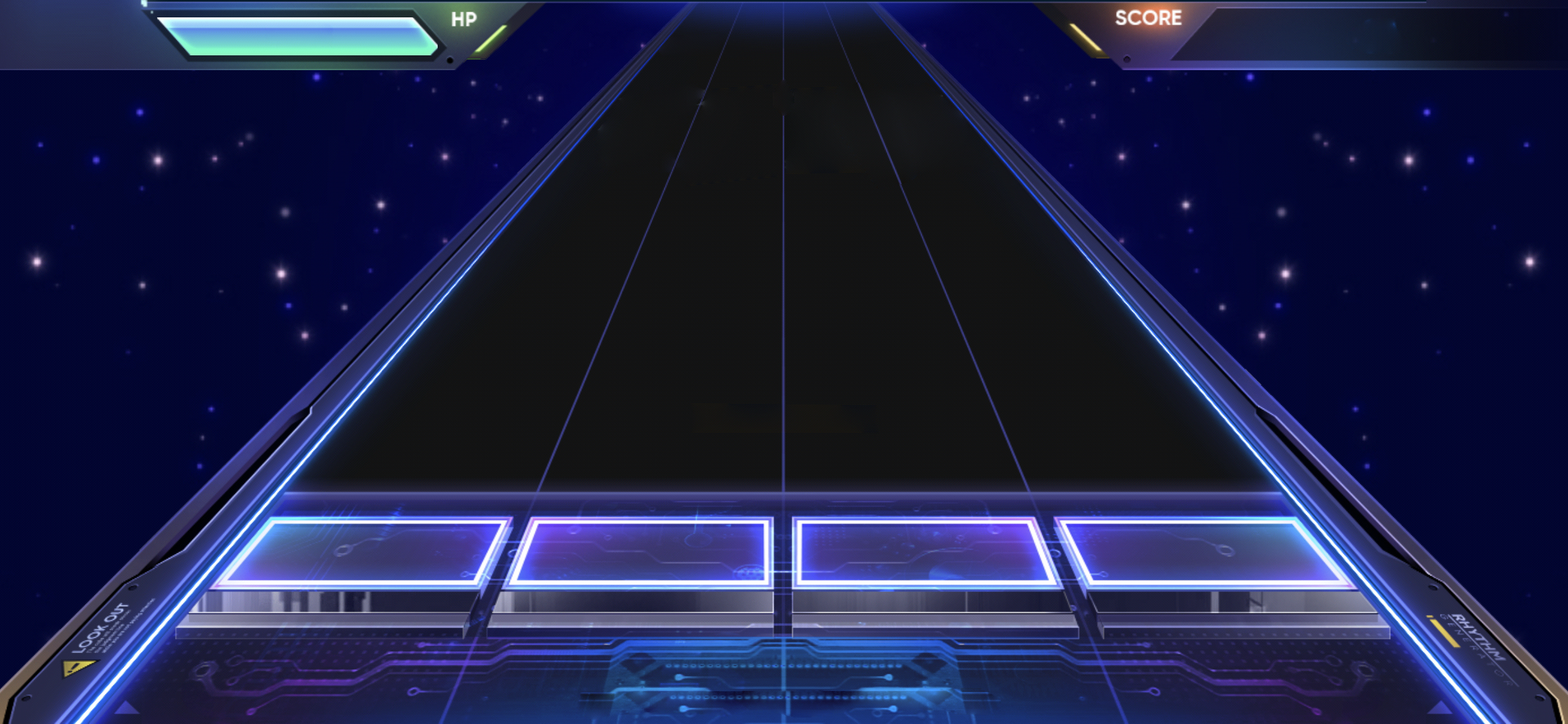
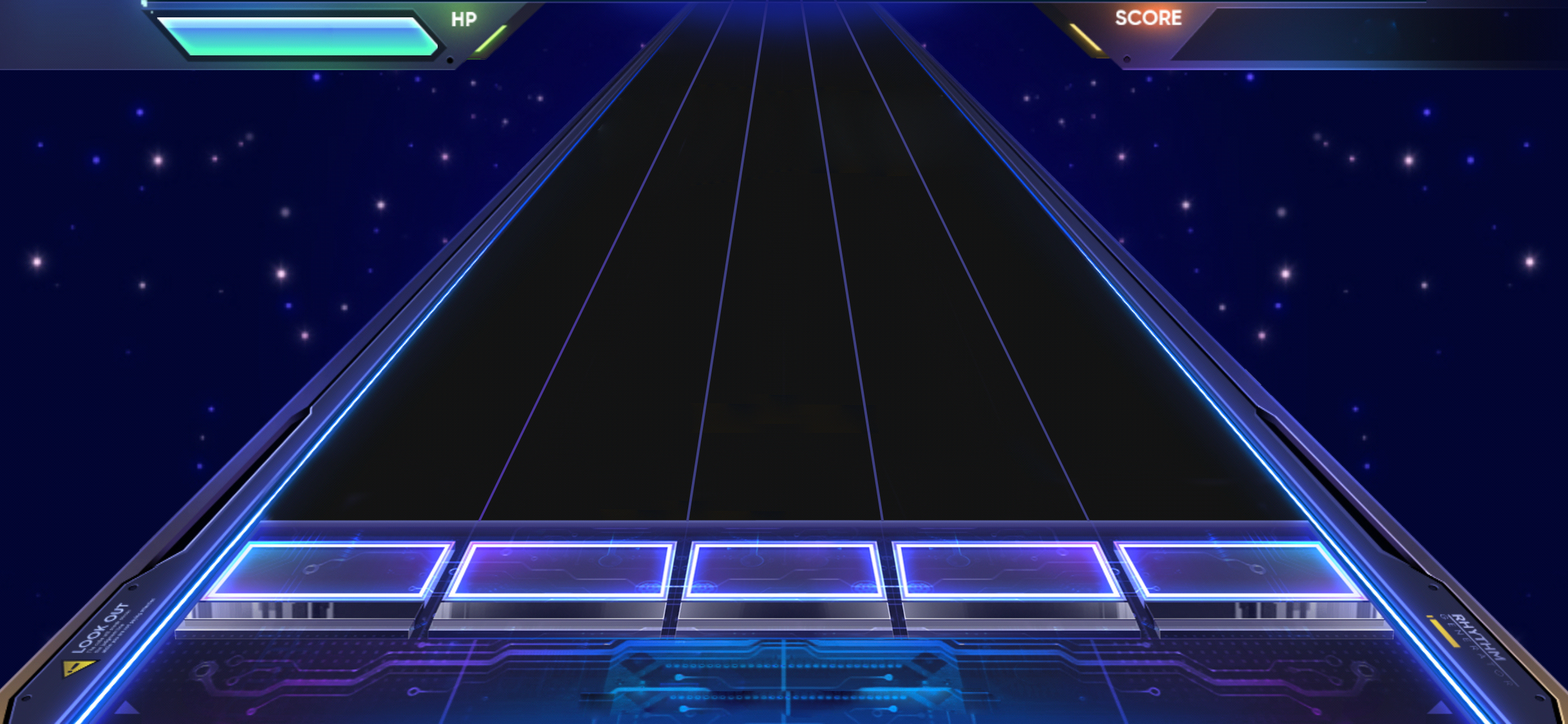
change
change

diff --git a/src/components/rhythm/Rhythm.js b/src/components/rhythm/Rhythm.js
@@ -58,7 +58,7 @@ export default function Dance() {
 
 
 		const trackWidth = 600
-		const trackHeight = 130
+		const trackHeight = 100
 		const trackDepth = 10;
 		let paddleWidth = 100;
 		let paddleHeight = 200;
@@ -101,7 +101,7 @@ export default function Dance() {
 					{
 						// color: 0x666666,
 						transparent: true,
-						opacity: 0,
+						opacity: 1,
 						map: Ttexture
 					})
 			);
@@ -120,17 +120,18 @@ export default function Dance() {
 		// 传入trackNum，规定滑块在哪条赛道上生成 ,positionNum 规定滑块在赛道上的距离
 		function createBox(trackNum, positionNum) {
 			const newWidth = 12
-			const newHeight = 37
+			const newHeight = 30
 			const newDepth = 5
 			const startY = 297
 			const startZ = 301
 			newSpeed = 324 / 30 / 4
 			const Boxtexture = new THREE.TextureLoader().load("./images/box.png");
 			const trackArr = {
-				"1": -64,
-				"2": -22,
-				"3": 22,
-				"4": 64
+				"1": -72,
+				"2": -35,
+				"3": 0,
+				"4": 35,
+				"5": 72,
 			}
 
 			const ball4 = new THREE.Mesh(
@@ -206,7 +207,7 @@ export default function Dance() {
 			// set the scene size
 			var WIDTH = window.innerWidth,
 				HEIGHT = window.innerHeight;
-
+			
 			// set some camera attributes
 			var VIEW_ANGLE = 50,
 				ASPECT = WIDTH / HEIGHT,
@@ -230,6 +231,20 @@ export default function Dance() {
 			// add the camera to the scene
 			scene.add(camera);
 
+
+			createBox(1, 1) 
+			createBox(2, 1)
+			createBox(3, 1)
+			createBox(4, 1)
+			createBox(5, 1)
+
+			 createTrack(-215)
+			 createTrack(-104)
+			 createTrack(0)
+			 createTrack(104)
+			 createTrack(215)
+
+			
 			// set a default position for the camera
 			// not doing this somehow messes up shadow rendering
 			camera.position.z = 320;
@@ -299,11 +314,11 @@ export default function Dance() {
 			const Ttexture = new THREE.TextureLoader().load("./images/track.png");
 
 			// 创建四个格子点击反馈
-			track = createTrack(-200)
-			track1 = createTrack(-67)
-			track2 = createTrack(67)
-			track3 = createTrack(200)
-
+			track = createTrack(-215)
+			track1 = createTrack(-104)
+			track2 = createTrack(0)
+			track3 = createTrack(104)
+			track4 = createTrack(215)
 			// // add the sphere to the scene
 
 
@@ -543,35 +558,11 @@ export default function Dance() {
 					// 键盘
 
 					if (a.position.x == -64) {
-
-
 						circleAni1.showCircle()
 					}
 
 					if (a.position.x == -22) {
 						if (Key.isDown('S')) {
-
-
-							// if (goodFlagB) {
-
-							// 	circle1.material.opacity = 1
-							// 	textmesh.material.opacity = 1
-							// 	goodFlagB = false
-
-							// 	if (!timerB) {
-							// 		timerB = setTimeout(() => {
-
-							// 			textmesh.material.opacity = 0
-							// 			circle1.material.opacity = 0
-							// 			circle1.scale.x = 1
-							// 			circle1.scale.y = 1
-							// 			// goodFlag = tru
-
-							// 			clearTimeout(timerB)
-							// 			timerB = null
-							// 		}, 400)
-							// 	}
-							// }
 							circleAni2.showCircle()
 						} else {
 						}
@@ -579,55 +570,12 @@ export default function Dance() {
 
 					if (a.position.x == 22) {
 						if (Key.isDown('D')) {
-							// if (goodFlagC) {
-
-							// 	circle2.material.opacity = 1
-							// 	textmesh.material.opacity = 1
-							// 	goodFlagC = false
-
-							// 	if (!timerC) {
-
-							// 		timerC = setTimeout(() => {
-
-							// 			circle2.material.opacity = 0
-							// 			textmesh.material.opacity = 0
-							// 			circle2.scale.x = 1
-							// 			circle2.scale.y = 1
-
-
-							// 			clearTimeout(timerC)
-							// 			timerC = null
-							// 		}, 400)
-							// 	}
-							// }
 							circleAni3.showCircle()
 						} else {
 						}
 					}
-
-
 					if (a.position.x == 64) {
 						if (Key.isDown('F')) {
-							// if (goodFlagD) {
-
-							// 	circle3.material.opacity = 1
-							// 	textmesh.material.opacity = 1
-							// 	goodFlagD = false
-
-							// 	if (!timerD) {
-							// 		timerD = setTimeout(() => {
-
-							// 			textmesh.material.opacity = 0
-							// 			circle3.material.opacity = 0
-							// 			circle3.scale.x = 1
-							// 			circle3.scale.y = 1
-							// 			// goodFlag = tru
-
-							// 			clearTimeout(timerD)
-							// 			timerD = null
-							// 		}, 400)
-							// 	}
-							// }
 							circleAni4.showCircle()
 						} else {
 						}
